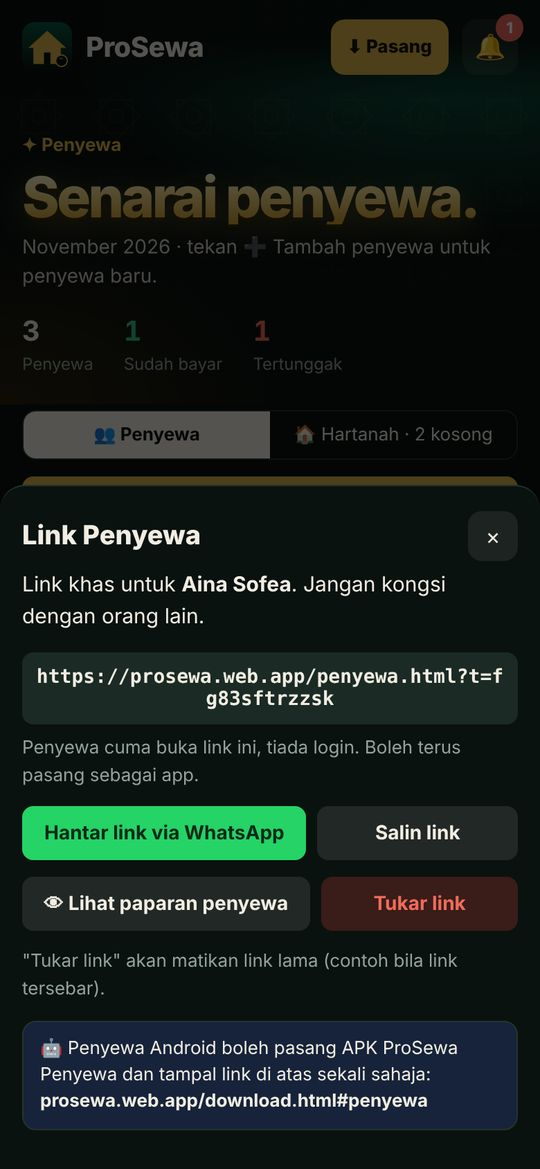
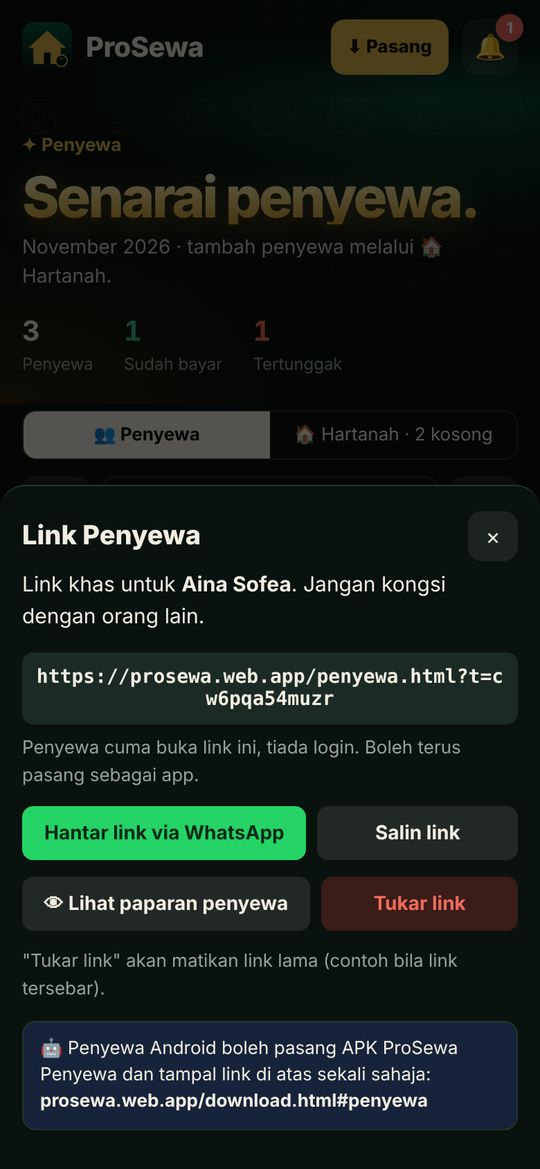
Buang butang Tambah penyewa di tab Penyewa; penyewa ditambah melalui Hartanah (+ Masukkan penyewa). Teks, manual & gambar dikemas kini
Claude-Session: https://claude.ai/code/session_017f1VMKQwjxZcuJmQN7U4w8

diff --git a/index.html b/index.html
@@ -680,7 +680,7 @@ Object.assign(I18N, {
   'Cuba dengan data contoh': 'Try with sample data', 'Data contoh': 'Sample data', 'Set semula': 'Reset',
   'Versi percubaan: data disimpan dalam peranti ini. Selepas disambung ke pelayan, link penyewa boleh dibuka di phone penyewa.': "Trial version: data is stored on this device. After connecting to the server, tenant links will open on tenants' phones.",
   'Nama anda': 'Your name', 'Min 4 aksara': 'Min 4 characters', 'cth:': 'e.g.', 'nama@email.com': 'name@email.com', 'Kata laluan anda': 'Your password',
-  'Penyewa': 'Tenants', 'Senarai penyewa.': 'Tenant list.', 'tekan ➕ Tambah penyewa untuk penyewa baru.': 'tap ➕ Add tenant for a new tenant.', 'Tekan ➕ Tambah penyewa untuk mula.': 'Tap ➕ Add tenant to start.', '➕ Tambah penyewa': '➕ Add tenant', 'di atas untuk mula.': 'above to start.',
+  'Penyewa': 'Tenants', 'Senarai penyewa.': 'Tenant list.', 'tambah penyewa melalui 🏠 Hartanah.': 'add tenants via 🏠 Properties.', 'Tambah penyewa melalui 🏠 Hartanah.': 'Add tenants via 🏠 Properties.', 'Buka': 'Open', ', tambah rumah, kemudian tekan': ', add a property, then tap', 'pada bilik / unit kosong.': 'on a vacant room / unit.', 'dan tekan': 'and tap', '🏠 Pergi ke Hartanah': '🏠 Go to Properties', '+ Masukkan penyewa': '+ Add tenant',
   'Belum ada penyewa.': 'No tenants yet.', 'Tekan': 'Tap', 'di kanan atas untuk tambah.': 'at the top right to add.',
   'Sudah bayar': 'Paid', 'Tertunggak': 'Overdue', 'Belum bayar': 'Unpaid', 'Menunggu semakan': 'Awaiting review', 'Bayar separa': 'Part paid', 'Semak': 'Review',
   'Hari lewat': 'Days late', 'Hari lagi': 'Days left', 'Hari ini': 'Today', 'Dibayar': 'Paid',
@@ -1760,16 +1760,16 @@ function oTenants() {
   const cm = S.month, list = activeT().filter(t => !t.startDate || t.startDate.slice(0, 7) <= cm);
   const st = list.map(t => ({t, s: monthStatus(t, cm, S.payments)}));
   const paid = st.filter(x => x.s.code === 'paid').length, late = st.filter(x => tcCls(x.s) === 'hot').length;
-  let h = header('Penyewa', 'Senarai penyewa.', list.length ? `${monthLabel(cm)} · tekan ➕ Tambah penyewa untuk penyewa baru.` : 'Tekan ➕ Tambah penyewa untuk mula.',
+  let h = header('Penyewa', 'Senarai penyewa.', list.length ? `${monthLabel(cm)} · tambah penyewa melalui 🏠 Hartanah.` : 'Tambah penyewa melalui 🏠 Hartanah.',
     {btns: ownerBtns(), stats: [[list.length, 'Penyewa'], [paid, 'Sudah bayar', 'g'], [late, 'Tertunggak', late ? 'r' : '']]}) + `<div class="wrap">`;
   const pv = S.tenView === 'props', vac = propStats().tot - propStats().occ;
   h += `<div class="seg"><button class="${pv ? '' : 'on'}" data-act="tenView" data-id="list">👥 Penyewa</button><button class="${pv ? 'on' : ''}" data-act="tenView" data-id="props">🏠 Hartanah${vac > 0 ? ` · ${vac} kosong` : ''}</button></div>`;
   if (pv) return h + oProps() + `</div>`;
-  h += `<button class="btn wide" style="margin:0 0 12px" data-act="tenantForm">➕ Tambah penyewa</button>` + monthNav(cm) + fqBox(list.length);
+  h += monthNav(cm) + fqBox(list.length);
   const ending = list.filter(t => t.contractEnd && ctInfo(t).soon).sort((a, b) => a.contractEnd.localeCompare(b.contractEnd));
   if (ending.length) h += `<div class="al hot"><b>📄 Kontrak hampir tamat (${ending.length})</b>${ending.map(t => `<div style="display:flex;gap:8px;align-items:center;justify-content:space-between;margin-top:6px"><span><span data-raw>${esc(t.name)}</span> · ${ctLabel(t)}</span><button class="btn sm" data-act="renewForm" data-id="${t.id}">Perbaharui</button></div>`).join('')}</div>`;
-  if (!list.length && !S.tenants.length) return h + `<div class="empty">Belum ada penyewa.<br>Tekan <b>➕ Tambah penyewa</b> di atas untuk mula.</div></div>`;
-  if (!list.length) h += `<div class="empty">Tiada penyewa aktif.<br>Tekan <b>➕ Tambah penyewa</b> di atas untuk mula.</div>`;
+  if (!list.length && !S.tenants.length) return h + `<div class="empty">Belum ada penyewa.<br>Buka <b>🏠 Hartanah</b>, tambah rumah, kemudian tekan <b>+ Masukkan penyewa</b> pada bilik / unit kosong.<br><button class="btn sm" style="margin-top:10px" data-act="tenView" data-id="props">🏠 Pergi ke Hartanah</button></div></div>`;
+  if (!list.length) h += `<div class="empty">Tiada penyewa aktif.<br>Buka <b>🏠 Hartanah</b> dan tekan <b>+ Masukkan penyewa</b> pada bilik / unit kosong.<br><button class="btn sm" style="margin-top:10px" data-act="tenView" data-id="props">🏠 Pergi ke Hartanah</button></div>`;
   h += list.length ? `<div class="card tlist">${st.map(({t, s}, i) => `<div class="trow fq" data-q="${esc((t.name + ' ' + (t.address || '') + ' ' + (t.phone || '')).toLowerCase())}" data-act="tenantView" data-id="${t.id}"><span class="num">${i + 1}</span><div class="grow"><div class="t" data-raw>${esc(t.name)}</div><div class="s"><span data-raw>${esc(t.address || '-')}</span> · ${RM(s.rent)}</div>${t.contractEnd && ctInfo(t).soon ? `<div class="s" style="color:var(--red)">📄 ${ctLabel(t)}</div>` : ''}${arrNote(t)}</div>${payBig(s, cm)}</div>`).join('')}</div>
     <p class="muted" style="text-align:center;font-size:12.5px">Tekan nama penyewa untuk butiran, link & tindakan.</p>` : '';
   const past = S.tenants.filter(t => t.active === false).sort((a, b) => String(b.moveOut || b.endedAt || '').localeCompare(String(a.moveOut || a.endedAt || '')));
@@ -2038,8 +2038,8 @@ const MANUAL = [
   '<ol><li>Pergi ke <b>Tetapan → Profil & maklumat bayaran</b>: isi nama, telefon, bank, no. akaun dan muat naik <b>QR DuitNow</b> anda. Penyewa nampak maklumat ini.</li><li>Di <b>Maklumat syarikat</b>: muat naik logo, nama & alamat syarikat, No. SSM/SST dan awalan no. resit. Ini muncul pada resit.</li><li>Di <b>Peringatan automatik</b>: pilih berapa hari sebelum tarikh bayar & jam notifikasi dihantar kepada penyewa.</li><li>Tekan <b>🔔 Aktifkan notifikasi phone</b>, kemudian <b>🧪 Uji notifikasi</b>.</li></ol><p>Lepas setiap kemas kini, tekan <b>🆕 Apa yang baru</b> di Tetapan untuk lihat perubahan.</p>',
   '<ol><li>Go to <b>Settings → Profile & payment details</b>: enter your name, phone, bank, account number and upload your <b>DuitNow QR</b>. Tenants see these details.</li><li>Under <b>Company details</b>: upload your logo, company name & address, SSM/SST numbers and receipt prefix. These appear on receipts.</li><li>Under <b>Automatic reminders</b>: choose how many days before the due date & what time tenants are notified.</li><li>Tap <b>🔔 Enable phone notifications</b>, then <b>🧪 Test notification</b>.</li></ol><p>After every update, tap <b>🆕 What\'s new</b> in Settings to see the changes.</p>'],
  ['👥 Tambah penyewa & hantar link', '👥 Add tenants & send their link',
-  '<ol><li>Di tab <b>Penyewa</b>, tekan <b>➕ Tambah penyewa</b>. Isi nama, telefon, alamat (rumah / bilik), sewa, deposit, tarikh bayar, tarikh mula & <b>tamat kontrak</b>.</li><li>Selepas simpan, tekan <b>Hantar link via WhatsApp</b>. Penyewa cuma buka link itu, <b>tiada login</b>.</li><li>Tab <b>Penyewa</b> tunjuk senarai ringkas dengan status besar <b>DIBAYAR / BELUM BAYAR</b>. Tekan nama penyewa untuk butiran, sejarah 6 bulan, link, edit, perbaharui & tamatkan sewa.</li><li>Penyewa Android boleh pasang <b>APK ProSewa Penyewa</b> dan tampal link sekali sahaja.</li><li>Link tersebar? Buka penyewa → <b>Tukar link</b>. Link lama terus tidak boleh digunakan.</li></ol>',
-  '<ol><li>In the <b>Tenants</b> tab, tap <b>➕ Add tenant</b>. Enter name, phone, address (house / room), rent, deposit, due day, start date & <b>tenancy end</b>.</li><li>After saving, tap <b>Send link via WhatsApp</b>. Tenants just open the link, <b>no login</b>.</li><li>The <b>Tenants</b> tab shows a compact list with a big <b>PAID / UNPAID</b> status. Tap a tenant for details, 6-month history, link, edit, renew & end tenancy.</li><li>Android tenants can install the <b>ProSewa Tenant APK</b> and paste the link once.</li><li>Link leaked? Open the tenant → <b>Change link</b>. The old link stops working immediately.</li></ol>'],
+  '<ol><li>Di tab <b>Penyewa</b>, buka <b>🏠 Hartanah</b> dan tambah rumah dahulu. Kemudian tekan <b>+ Masukkan penyewa</b> pada bilik / unit kosong. Isi nama, telefon, alamat (rumah / bilik), sewa, deposit, tarikh bayar, tarikh mula & <b>tamat kontrak</b>.</li><li>Selepas simpan, tekan <b>Hantar link via WhatsApp</b>. Penyewa cuma buka link itu, <b>tiada login</b>.</li><li>Tab <b>Penyewa</b> tunjuk senarai ringkas dengan status besar <b>DIBAYAR / BELUM BAYAR</b>. Tekan nama penyewa untuk butiran, sejarah 6 bulan, link, edit, perbaharui & tamatkan sewa.</li><li>Penyewa Android boleh pasang <b>APK ProSewa Penyewa</b> dan tampal link sekali sahaja.</li><li>Link tersebar? Buka penyewa → <b>Tukar link</b>. Link lama terus tidak boleh digunakan.</li></ol>',
+  '<ol><li>In the <b>Tenants</b> tab, open <b>🏠 Properties</b> and add a property first. Then tap <b>+ Add tenant</b> on a vacant room / unit. Enter name, phone, address (house / room), rent, deposit, due day, start date & <b>tenancy end</b>.</li><li>After saving, tap <b>Send link via WhatsApp</b>. Tenants just open the link, <b>no login</b>.</li><li>The <b>Tenants</b> tab shows a compact list with a big <b>PAID / UNPAID</b> status. Tap a tenant for details, 6-month history, link, edit, renew & end tenancy.</li><li>Android tenants can install the <b>ProSewa Tenant APK</b> and paste the link once.</li><li>Link leaked? Open the tenant → <b>Change link</b>. The old link stops working immediately.</li></ol>'],
  ['🏘 Rumah & bilik (Hartanah)', '🏘 Houses & rooms (Properties)',
   '<ol><li>Di tab <b>Penyewa</b>, tekan <b>🏠 Hartanah</b> → <b>Tambah rumah</b>. Pilih <b>Sewa bilik</b> (senaraikan bilik & sewa) atau <b>Seluruh rumah / unit</b>.</li><li>Bilik tanpa penyewa ditanda <b>kosong</b>, dengan bilangan hari dan sewa yang hilang sebulan. Tekan <b>+ Masukkan penyewa</b> terus dari bilik itu.</li><li>Penyewa sedia ada: tekan ✏ Edit dan pilih <b>Rumah / bilik</b>.</li><li>Bila sewa ditamatkan (🚪), bilik terus jadi kosong. Laporan cukai dikira ikut rumah.</li></ol><p>Pilihan sahaja: penyewa tanpa rumah tetap berfungsi seperti biasa.</p>',
   '<ol><li>In the <b>Tenants</b> tab, tap <b>🏠 Properties</b> → <b>Add property</b>. Choose <b>Room rental</b> (list the rooms & rent) or <b>Whole house / unit</b>.</li><li>Rooms without a tenant are marked <b>vacant</b>, with the number of days and the rent lost per month. Tap <b>+ Add tenant</b> straight from that room.</li><li>Existing tenants: tap ✏ Edit and choose a <b>Property / room</b>.</li><li>When a tenancy ends (🚪), the room becomes vacant automatically. The tax report is grouped by property.</li></ol><p>Optional: tenants without a property keep working as usual.</p>'],
@@ -2156,7 +2156,7 @@ function whatsNew() {
 // Gambar manual (shots/manual/*.jpg) + keterangan di bawah gambar, ikut susunan topik MANUAL
 const MANUAL_IMG = [
  [['m01a', 'Maklumat syarikat: logo, nama & alamat yang keluar pada resit.', 'Company details: the logo, name & address shown on receipts.'], ['m01b', 'Profil & maklumat bayaran: bank, no. akaun & QR DuitNow untuk penyewa.', 'Profile & payment details: bank, account no. & DuitNow QR for tenants.']],
- [['m02a', 'Tekan ➕ Tambah penyewa di tab Penyewa untuk buka borang.', 'Tap ➕ Add tenant in the Tenants tab to open the form.'], ['m02b', 'Link khas penyewa: hantar via WhatsApp atau salin.', 'Private tenant link: send via WhatsApp or copy.'], ['m02c', 'Senarai penyewa dengan status bayaran. Pilih bulan dengan ‹ › atau senarai bulan.', 'Tenant list with payment status. Choose the month with ‹ › or the month list.'], ['m02d', 'Tekan nama: butiran, sejarah 6 bulan & semua tindakan.', 'Tap a name: details, 6-month history & all actions.']],
+ [['m02a', 'Borang penyewa: dibuka dari + Masukkan penyewa pada bilik / unit kosong di Hartanah.', 'Tenant form: opened from + Add tenant on a vacant room / unit in Properties.'], ['m02b', 'Link khas penyewa: hantar via WhatsApp atau salin.', 'Private tenant link: send via WhatsApp or copy.'], ['m02c', 'Senarai penyewa dengan status bayaran. Pilih bulan dengan ‹ › atau senarai bulan.', 'Tenant list with payment status. Choose the month with ‹ › or the month list.'], ['m02d', 'Tekan nama: butiran, sejarah 6 bulan & semua tindakan.', 'Tap a name: details, 6-month history & all actions.']],
  [['m03', 'Hartanah: kadar penghunian, bilik kosong & sewa yang hilang.', 'Properties: occupancy, vacant rooms & lost rent.']],
  [['m04a', 'Tab Status: bukti bayaran baru di bahagian atas.', 'Status tab: new payment proofs at the top.'], ['m04b', 'Semak bayaran: semak jumlah sebenar diterima, tanda kotak, kemudian Lulus & hantar resit.', 'Review payment: check the actual amount received, tick the box, then Approve & send receipt.'], ['m04c', 'Resit bernombor dijana automatik.', 'A numbered receipt is created automatically.'], ['m04d', 'Bayaran manual untuk penyewa yang tak guna app.', 'Manual payment for tenants who don\'t use the app.']],
  [['m05', 'Belum bayar: Ingatkan, Bayaran manual atau WhatsApp.', 'Unpaid: Remind, Manual payment or WhatsApp.']],
